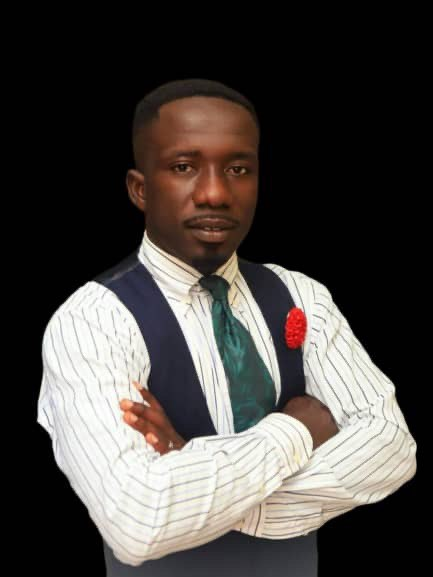
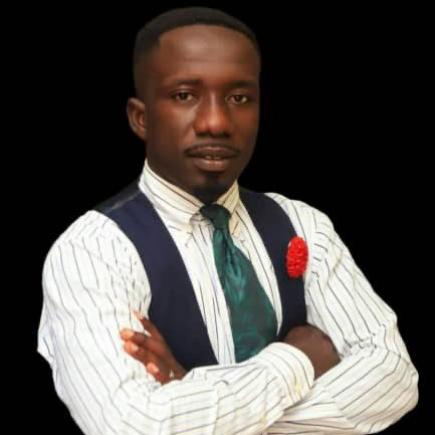
Update leadership team image path and adjust About page image dimensions for better display

diff --git a/app/about/page.js b/app/about/page.js
@@ -63,8 +63,8 @@ const AboutPage = () => {
                   src={leader.image}
                   alt={leader.name}
                   width={128}
-                  height={90}
-                  className="rounded-full mx-auto mb-4 object-cover"
+                  height={128}
+                  className="w-auto h-auto rounded-full mx-auto mb-4 object-cover"
                 />
                 <h3 className="text-2xl font-semibold mb-2">{leader.name}</h3>
                 <p className="text-gray-600 mb-4">{leader.title}</p>

diff --git a/app/Data/index.js b/app/Data/index.js
@@ -6,7 +6,7 @@ export const leadershipTeam = [
     name: "Prophet Kwasi Adu-Darko",
     title: "Chairman of the Board of Directors",
     bio: "Prophet Kwasi Adu-Darko has served our church for over 6 years, leading with a heart for community and spiritual growth.",
-    image: "/Ap.Adu.jpg", // Example image path
+    image: "/Ap.Adu.jpg",
   },
   {
     id: 2,
